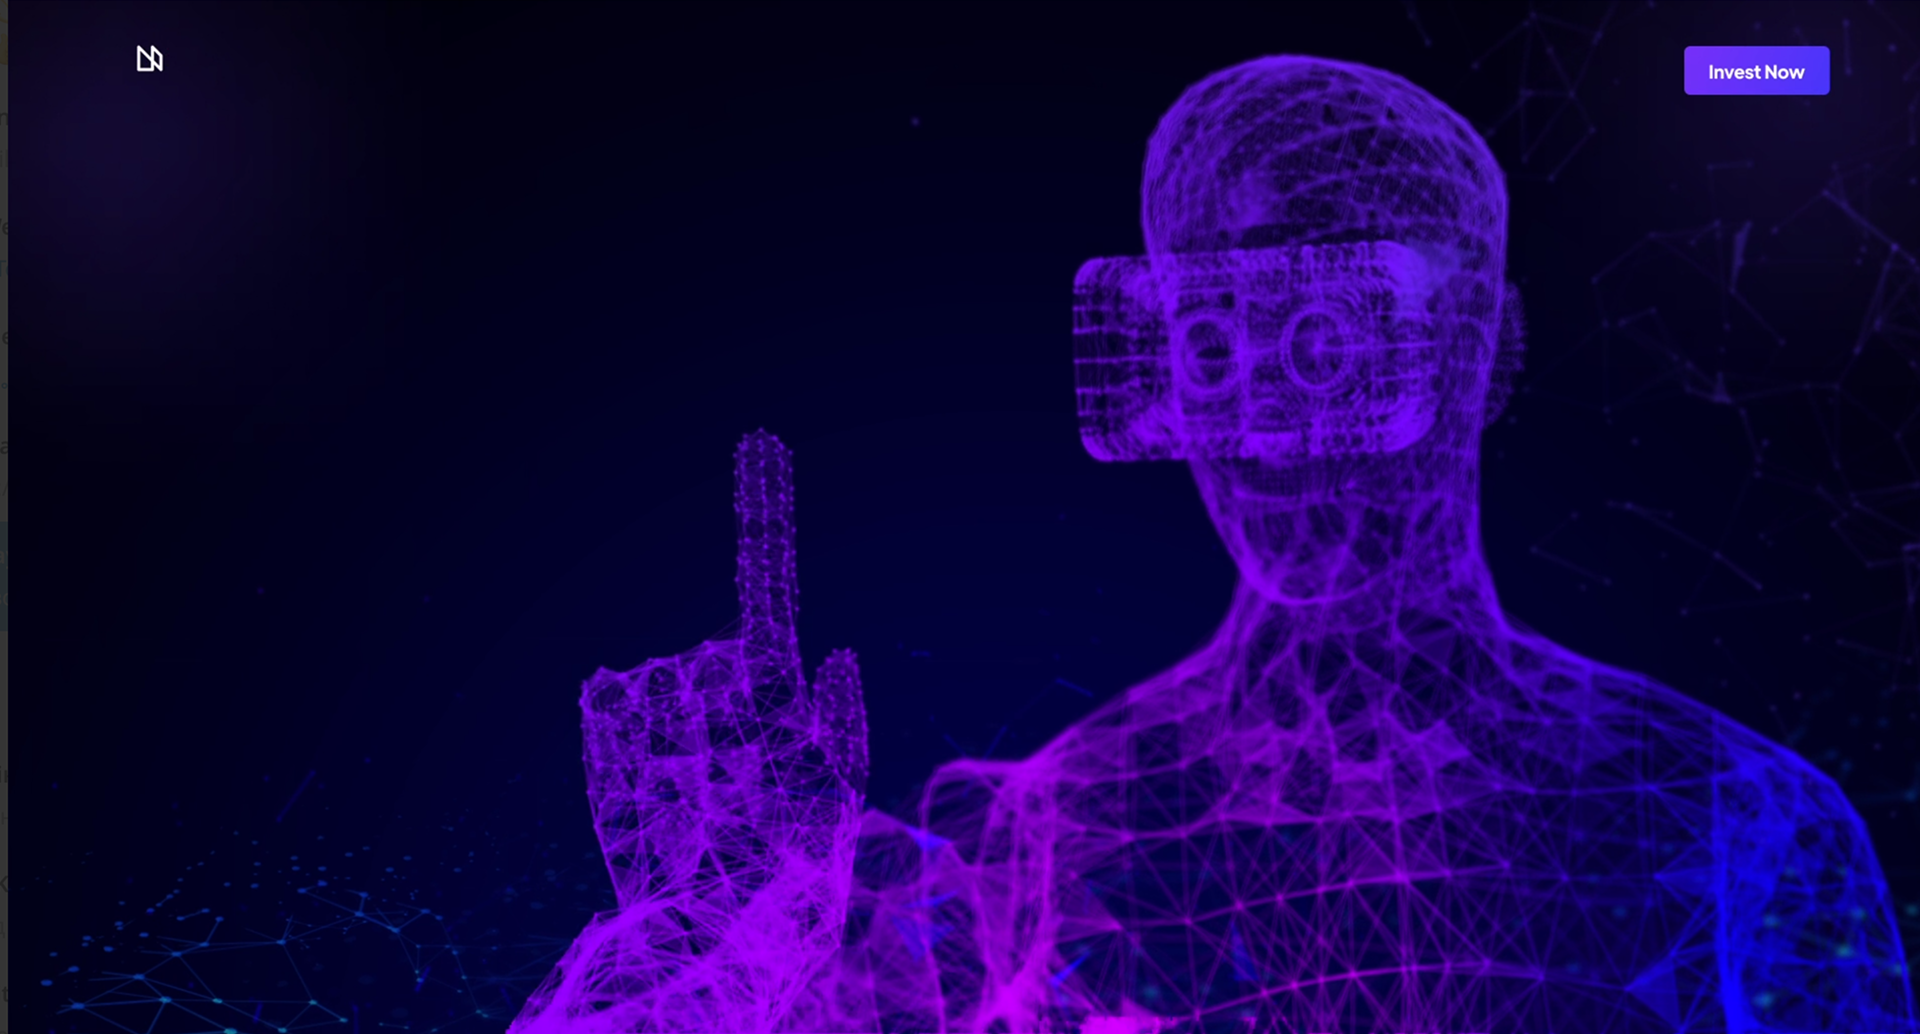
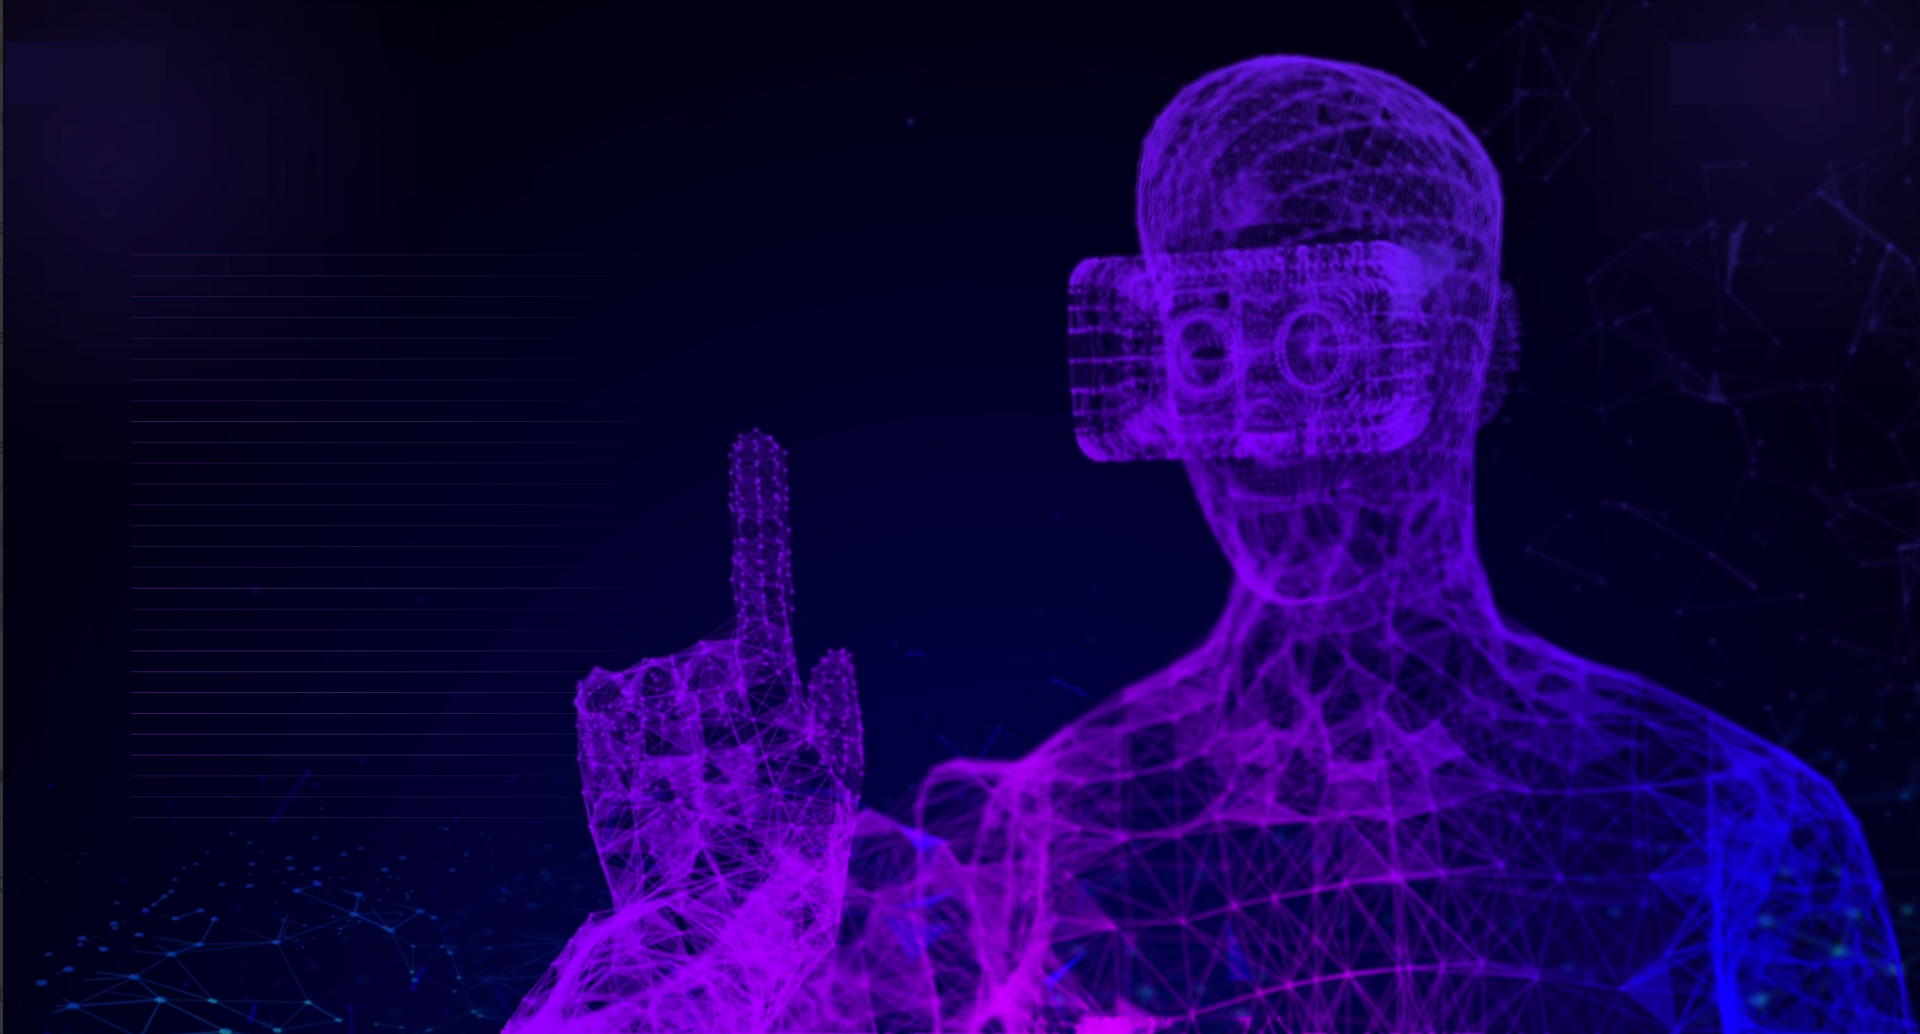
feat: add base section styles and line component

diff --git a/src/scss/custom.css b/src/scss/custom.css
@@ -1,16 +1,17 @@
 :root {
-  --bs-primary: #6100FF;
+  --bs-primary: #8A2BE2;
   --bs-secondary: #A109FE;
   --bs-tertiary: #7A59FF;
   --bs-body-font-family: "Plus Jakarta Sans", sans-serif;
   --bs-body-font-size: 1rem;
   --bs-body-line-height: 1.6;
   --bs-headings-line-height: 1.4;
-  --bs-link-color: #6100FF;
-  --bs-link-hover-color: #4e00cc;
+  --bs-link-color: #8A2BE2;
+  --bs-link-hover-color: #701ac0;
   --bs-link-decoration: none;
   --bs-body-bg: #ffffff;
   --bs-body-color: #090812;
+  --accent-color: #56FFEB;
   --gradient-neon: linear-gradient(90deg, var(--bs-primary), var(--bs-secondary));
   --button-gradient: linear-gradient(135deg, #7a42f4 0%, #4642f4 100%);
 }
@@ -70,7 +71,7 @@
 *,
 *::before,
 *::after {
-  box-sizing: content-box;
+  box-sizing: border-box;
 }
 
 @media (min-width: 991.98px) {
@@ -414,63 +415,74 @@
   box-shadow: 0 0 0 3px rgba(122, 66, 244, 0.5);
 }
 
-.hero {
+.line {
+  --line-top: 0;
+  --line-bottom: 0;
+  --line-left: 0;
+  --line-width: 5px;
+  --line-height: 100%;
+  --line-color: var(--bs-primary);
   position: relative;
-  min-height: 100vh;
-  overflow: hidden;
-  background: url(../assets/images/bg/BG-hero.png);
-  background-repeat: no-repeat;
-  background-position: center bottom;
-  background-size: 100%;
 }
-@media (min-width: 767.98px) {
-  .hero {
-    background-size: 80%;
-  }
-}
-.hero .container {
-  position: relative;
-  z-index: 2;
-}
-.hero-content {
-  border-left: 5px solid var(--bs-primary);
-}
-@media (min-width: 767.98px) {
-  .hero-content {
-    padding-left: 60px;
-  }
-}
-.hero-title {
-  margin-bottom: 65px;
-  font-size: 1.4rem;
-  line-height: 2;
-  font-weight: 700;
-  letter-spacing: 0.01em;
-  color: #fff;
-  text-transform: uppercase;
-}
-@media (min-width: 767.98px) {
-  .hero-title {
-    font-size: 2rem;
-    line-height: 1.4;
-  }
-}
-@media (min-width: 991.98px) {
-  .hero-title {
-    font-size: 3rem;
-    line-height: 1.4;
-  }
-}
-.hero-title svg {
-  display: inline-block;
-  margin: 0 10px;
-}
-.hero canvas {
+.line::before {
+  content: "";
   position: absolute;
-  top: 0;
-  left: 0;
-  width: 100%;
-  height: 100%;
-  z-index: 1;
-  pointer-events: none;
+  top: var(--line-top);
+  left: var(--line-left);
+  bottom: var(--line-bottom);
+  width: var(--line-width);
+  height: var(--line-height);
+  background-color: var(--line-color);
+}
+.line--accent {
+  --line-color: var(--accent-color);
+}
+
+.section {
+  --section-bg-color: var(--bs-black);
+  --section-bg-image: none;
+  --section-content-border-color: var(--bs-primary);
+  --section-content-border-width: 5px;
+  --section-content-border-style: solid;
+  background: var(--section-bg-color) var(--section-bg-image) no-repeat center center;
+  background-size: cover;
+}
+.section--about {
+  --section-bg-image: url("../assets/images/bg/BG-about_uns.png");
+}
+.section-content {
+  display: flex;
+  flex-direction: column;
+  justify-content: center;
+  padding-top: 75px;
+  padding-left: 12px;
+  text-align: center;
+}
+.section-title {
+  min-width: 0;
+  font-size: clamp(1.5rem, 5vw, 3rem);
+  font-weight: 700;
+}
+.section-subtitle {
+  order: -1;
+  min-width: 0;
+  text-transform: uppercase;
+  font-size: 1.5rem;
+}
+.section-text {
+  margin-bottom: 2rem;
+}
+
+@media (min-width: 991.98px) {
+  .section-content {
+    margin-bottom: 3rem;
+    padding-left: 50px;
+    text-align: left;
+  }
+  .section-title {
+    font-size: 2.5rem;
+  }
+  .section-subtitle {
+    font-size: 1.2rem;
+  }
 }

diff --git a/index.html b/index.html
@@ -87,18 +87,21 @@
     </section>
 
     <!-- About Us -->
-    <!-- <section id="about" class="py-5">
+    <section id="about" class="section section--about min-vh-100 d-flex align-items-center">
         <div class="container">
-            <h2 class="text-center mb-5">About Us</h2>
-            <div class="row">
+            <div class="row align-items-center">
                 <div class="col-lg-6">
-                    <div class="about-content">
-                        <!-- Здесь будет контент "О нас" -->
-                    <!-- </div>
+                    <div class="section-content line line--accent">
+                        <h2 class="section-title">ABOUT US</h2>
+                        <h3 class="section-subtitle">Profile</h3>	
+                        <p class="section-text">
+                            Crafty Metaverse is a multi-blockchain based virtual reality metaverse platform to develop the most immersive, imaginative, and addictive gaming experiences. We are providing our gaming community with the near-real-world experience while using their digital avatars. Our ecosystem will be a futuristic, decentralized, and persistent 3D virtual metaverse gaming platform especially for crypto enthusiasts, gamers, artists, and metaverse fans.
+                        </p>
+                    </div>
                 </div>
             </div>
         </div>
-    </section>   -->
+    </section>  
 
     <!-- Roadmap -->
     <!-- <section id="roadmap" class="py-5">

diff --git a/src/scss/abstracts/variables/_variables.scss b/src/scss/abstracts/variables/_variables.scss
@@ -9,15 +9,19 @@
 // @media (max-width: 767.98px) {
 // } 
 
-$primary: #6100FF;
+$primary: #8A2BE2; 
+$primary-rgb: 138, 43, 226;
 $secondary: #A109FE;
 $tertiary: #7A59FF;
+$accent: #56FFEB;
 $dark:#090812;
 $white:#ffffff;
 
 $theme-colors: (
   "primary": $primary,
-  "secondary": $secondary
+  "secondary": $secondary,
+  "tertiary": $tertiary,
+  "accent": $accent
 );
 
 :root {
@@ -40,6 +44,7 @@ $theme-colors: (
     --bs-body-color: #{$dark};
 
     //custom
+    --accent-color: #{$accent};
     --gradient-neon: linear-gradient(90deg, var(--bs-primary), var(--bs-secondary));
     --button-gradient: linear-gradient(135deg, #7a42f4 0%, #4642f4 100%);
     

diff --git a/src/scss/components/_components.scss b/src/scss/components/_components.scss
@@ -1,4 +1,5 @@
 @import 'navbar/navbar';
 @import 'cards/cards';
 @import 'buttons/buttons';
+@import 'line/line';
 

diff --git a/src/scss/base/_base.scss b/src/scss/base/_base.scss
@@ -1,5 +1,5 @@
 *,
 *::before,
 *::after {
-    box-sizing: content-box;
+    box-sizing: border-box;
 }
